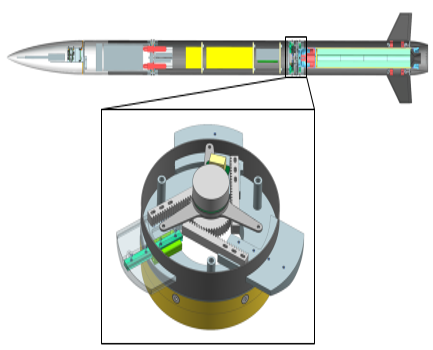
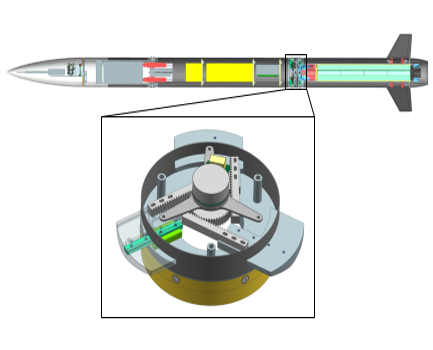
Minor modifications to figures.

diff --git a/_publications/2022-06-20_randup_l4dc.md b/_publications/2022-06-20_randup_l4dc.md
@@ -13,7 +13,7 @@ date: 2022-09-25
 venue: 'L4DC'
 venuetype: "conference"
 paperauthors: 'T. Lew, L. Janson, R. Bonalli, M. Pavone'
-thumbnail: "randup/randup_l4dc.png"
+thumbnail: "randup/randup_l4dc_vertical.jpg"
 paperurl: 'https://arxiv.org/abs/2112.05745'
 ---
 
